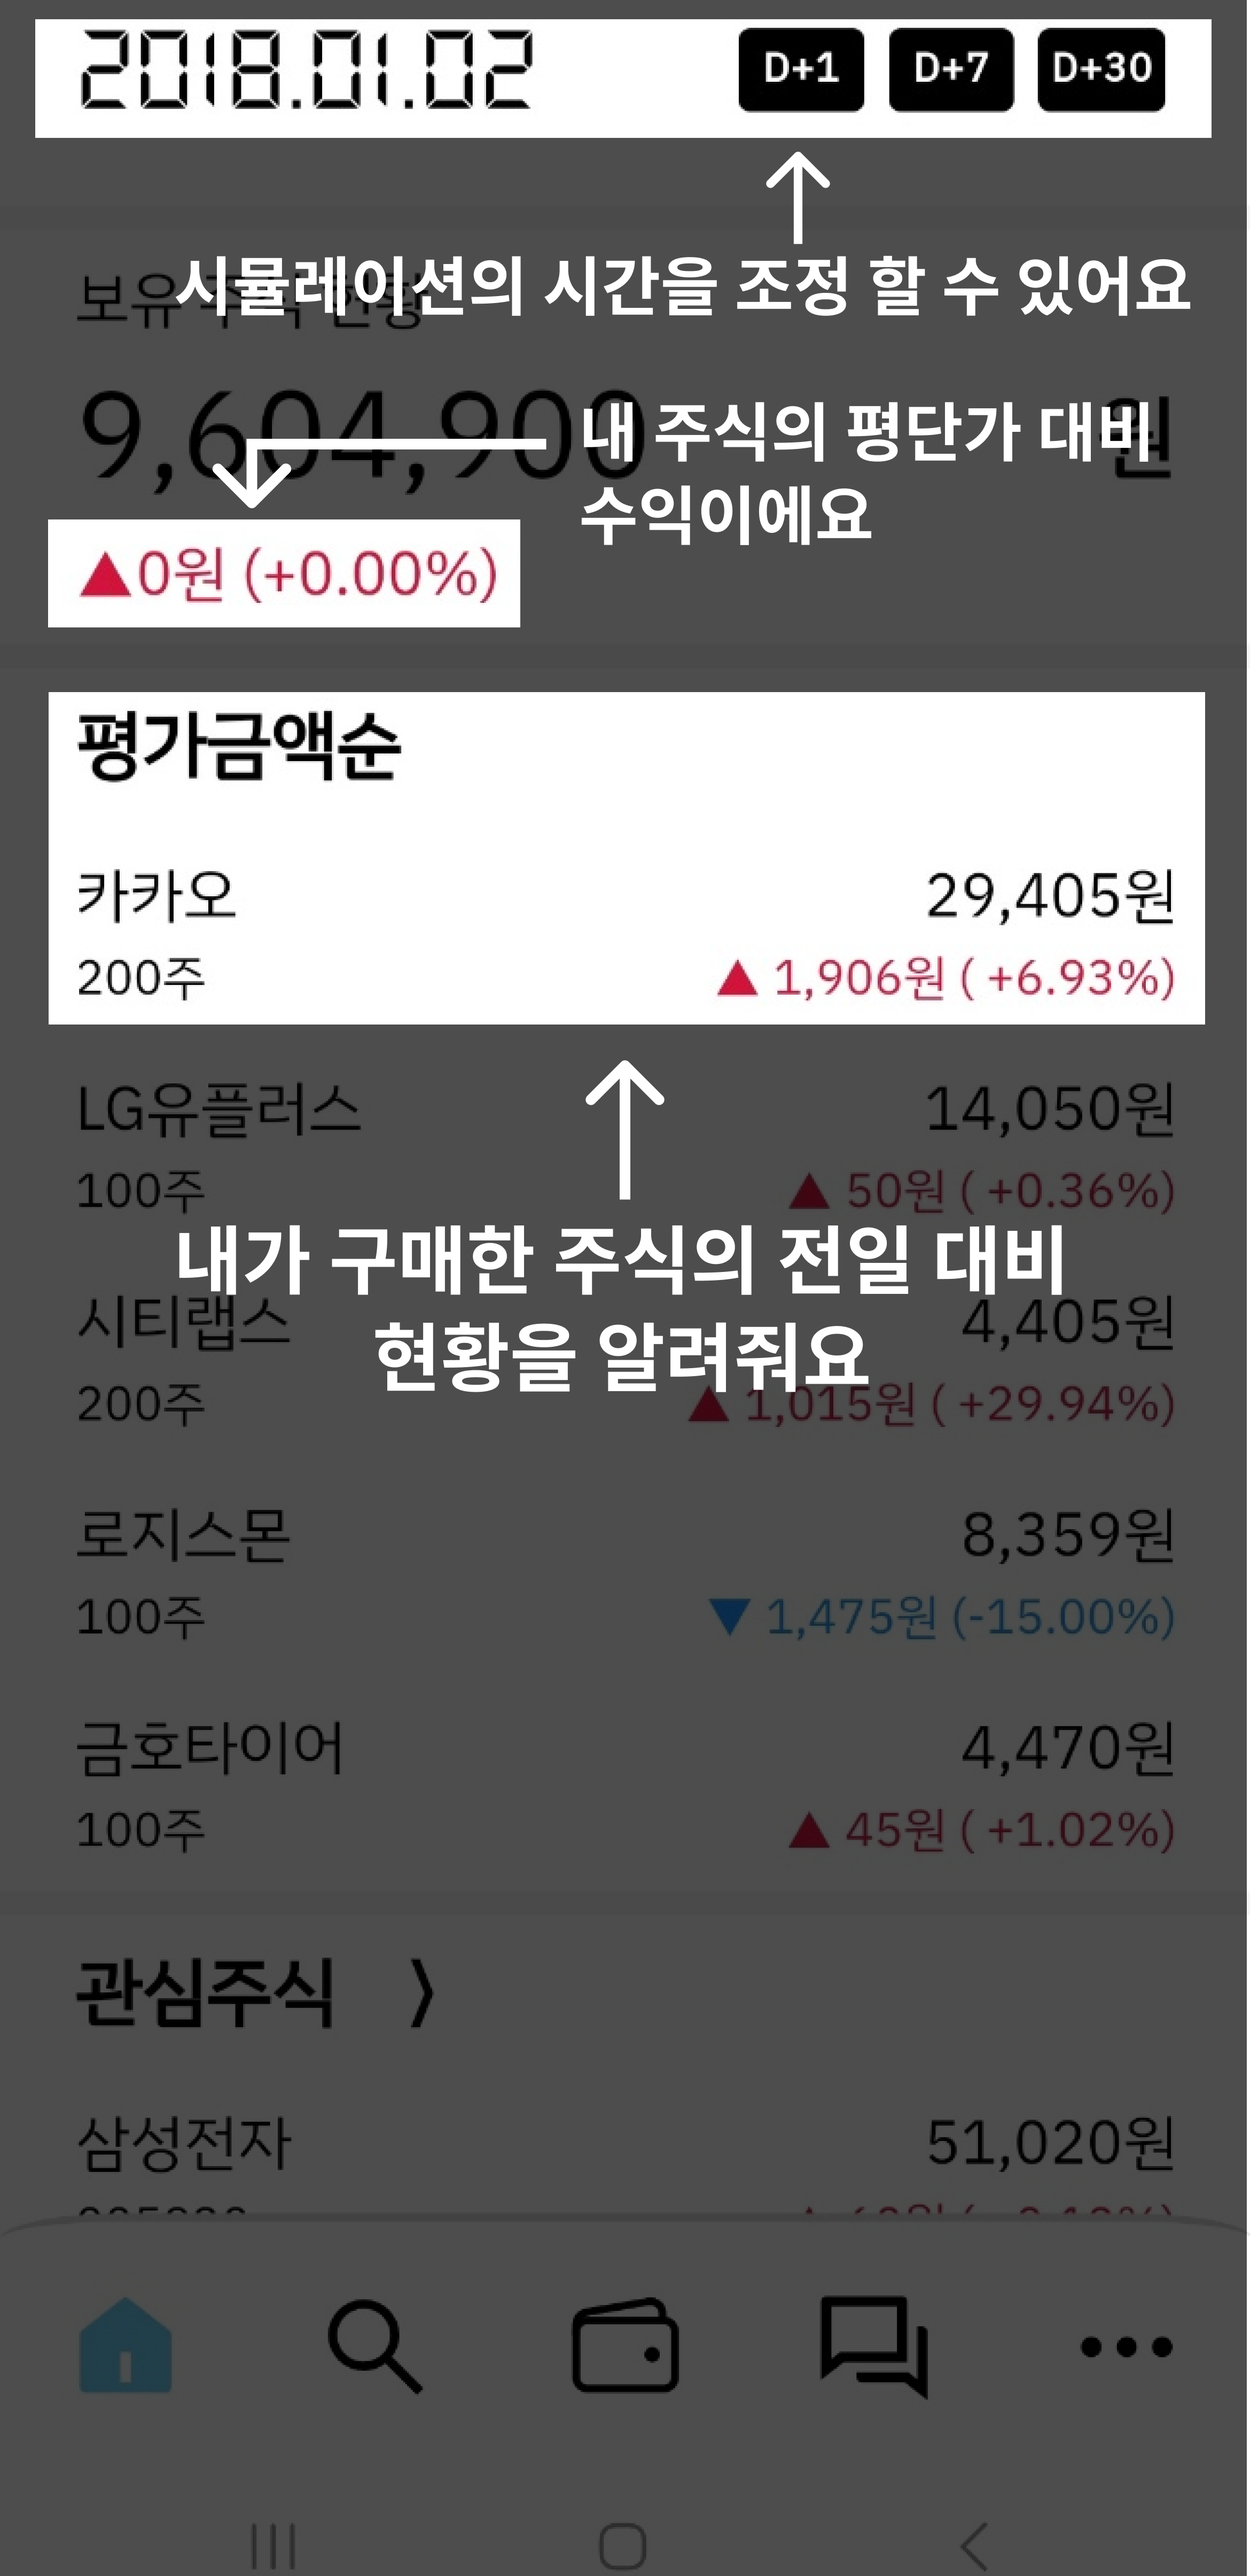
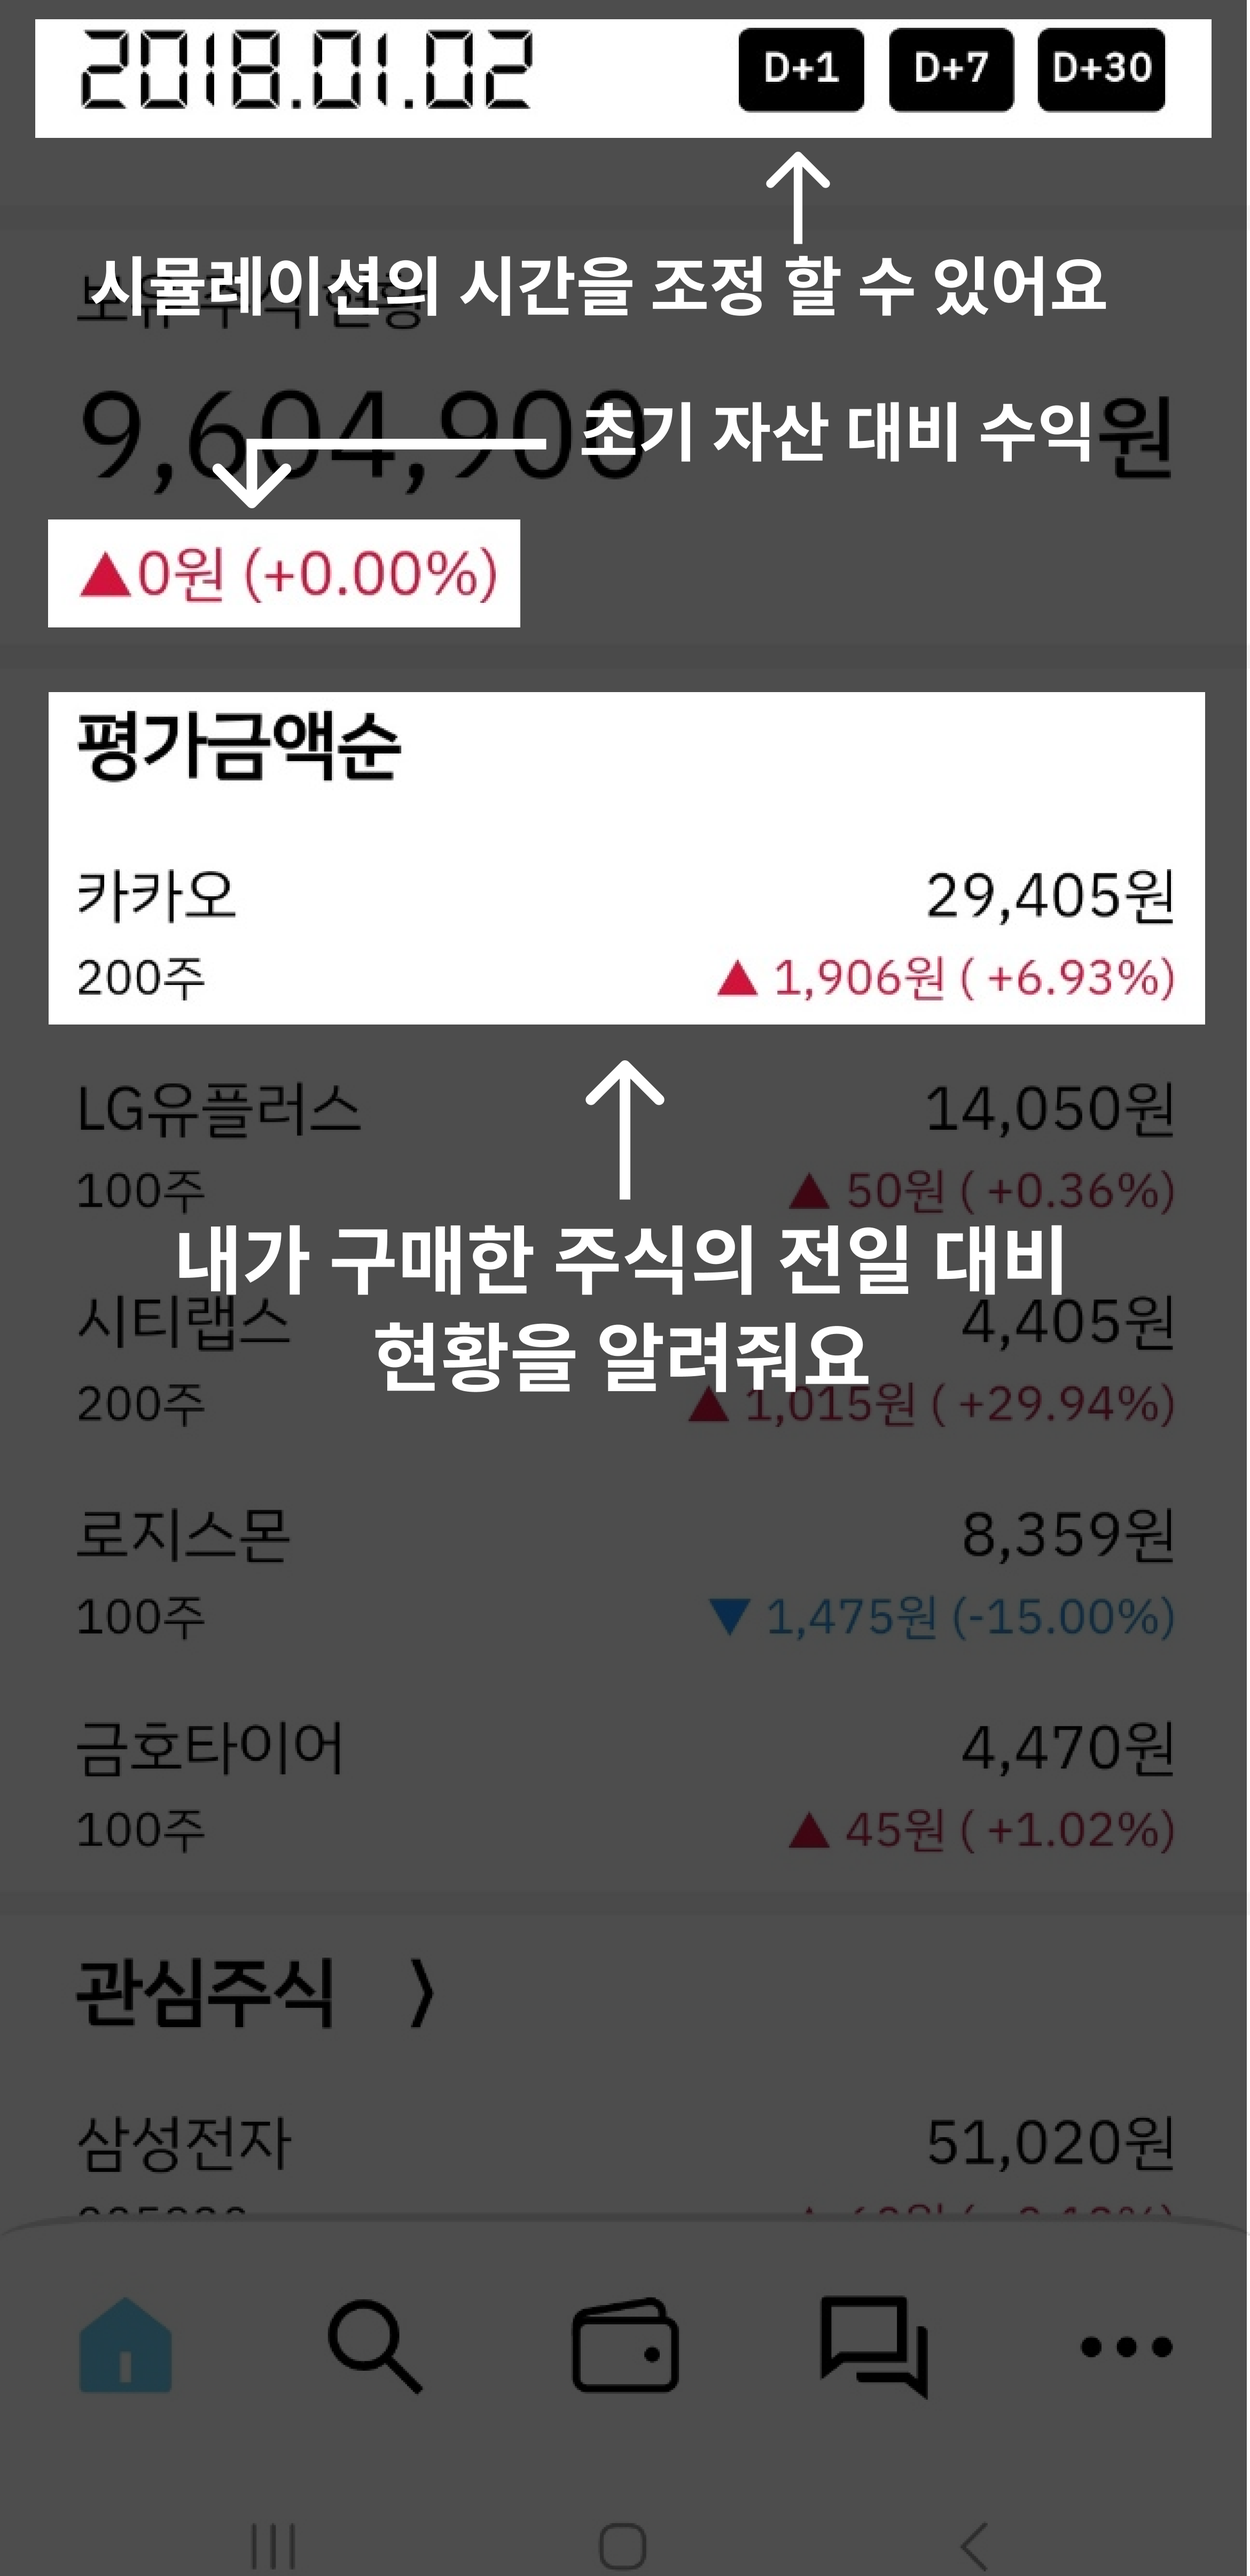
hotfix

Changed region(s): [[0.0624, 0.0934, 0.9671, 0.1245], [0.4679, 0.1556, 0.9359, 0.2178]]

diff --git a/front/src/components/home/AssetStatus.js b/front/src/components/home/AssetStatus.js
@@ -9,6 +9,8 @@ import mainImg from '../.././static/Main_Guide.png';
 const AssetStatus = (props) => {
   const { user } = userStore((state) => state);
   const userAssetChanged = props.userAssetChanged;
+  const rateReturn = user.memberassetTotalAsset - 100000000;
+  const rateReturnPer = (user.memberassetTotalAsset / 100000000) * 100 - 100;
   const guideLine = () => {
     Swal.fire({
       imageUrl: mainImg,
@@ -23,7 +25,7 @@ const AssetStatus = (props) => {
   return (
     <div className="asset">
       <div className="asset-status">
-        <div>보유 주식 현황</div>
+        <div>총 자산 현황</div>
         <div style={{ paddingTop: '7px' }}>
           <AiOutlineInfoCircle
             onClick={() => {
@@ -39,7 +41,7 @@ const AssetStatus = (props) => {
             to={
               user.memberassetStockAsset === undefined
                 ? 0
-                : user.memberassetStockAsset
+                : user.memberassetStockAsset + user.memberassetAvailableAsset
             }
           />
         </span>
@@ -48,36 +50,20 @@ const AssetStatus = (props) => {
       <div
         className="change"
         style={
-          userAssetChanged.stockDataPriceIncreasement >= 0 ||
-          userAssetChanged.stockDataPriceIncreasement === undefined
+          rateReturnPer >= 0 || rateReturn === undefined
             ? { color: '#D2143C' }
             : { color: '#1E90FF' }
         }
       >
-        {userAssetChanged.stockDataPriceIncreasement >= 0 ||
-        userAssetChanged.stockDataPriceIncreasement === undefined
-          ? '▲'
-          : '▼'}
+        {rateReturn >= 0 || rateReturn === undefined ? '▲' : '▼'}
         <Counter
           from={0}
-          to={
-            userAssetChanged.stockDataPriceIncreasement === undefined
-              ? 0
-              : Math.abs(userAssetChanged.stockDataPriceIncreasement)
-          }
+          to={rateReturn === undefined ? 0 : Math.abs(rateReturn)}
         />
-        원 (
-        {userAssetChanged.stockDataFlucauationRateSum >= 0 ||
-        userAssetChanged.stockDataPriceIncreasement === undefined
-          ? '+'
-          : null}
+        원 ({rateReturnPer >= 0 || rateReturnPer === undefined ? '+' : null}
         <CounterPer
           from={0}
-          to={
-            userAssetChanged.stockDataFlucauationRateSum === undefined
-              ? 0
-              : userAssetChanged.stockDataFlucauationRateSum
-          }
+          to={rateReturnPer === undefined ? 0 : rateReturnPer}
         />
         )
       </div>
